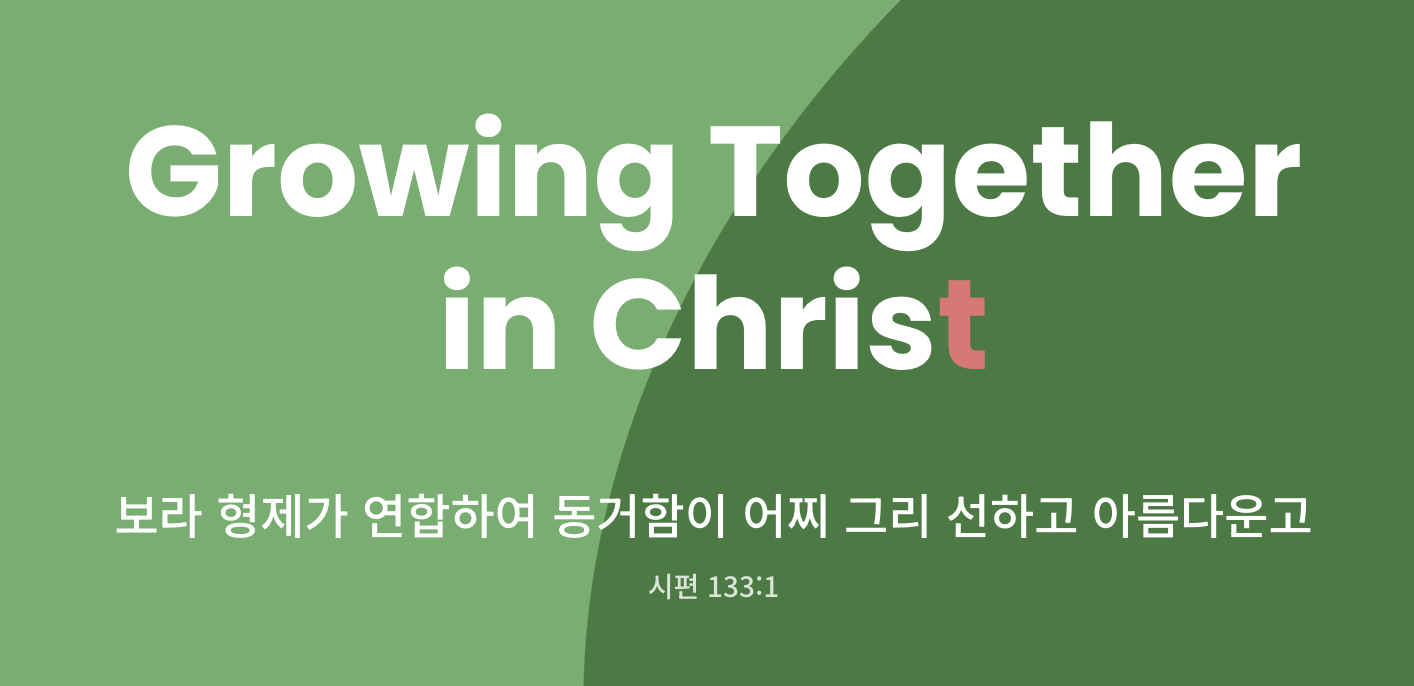
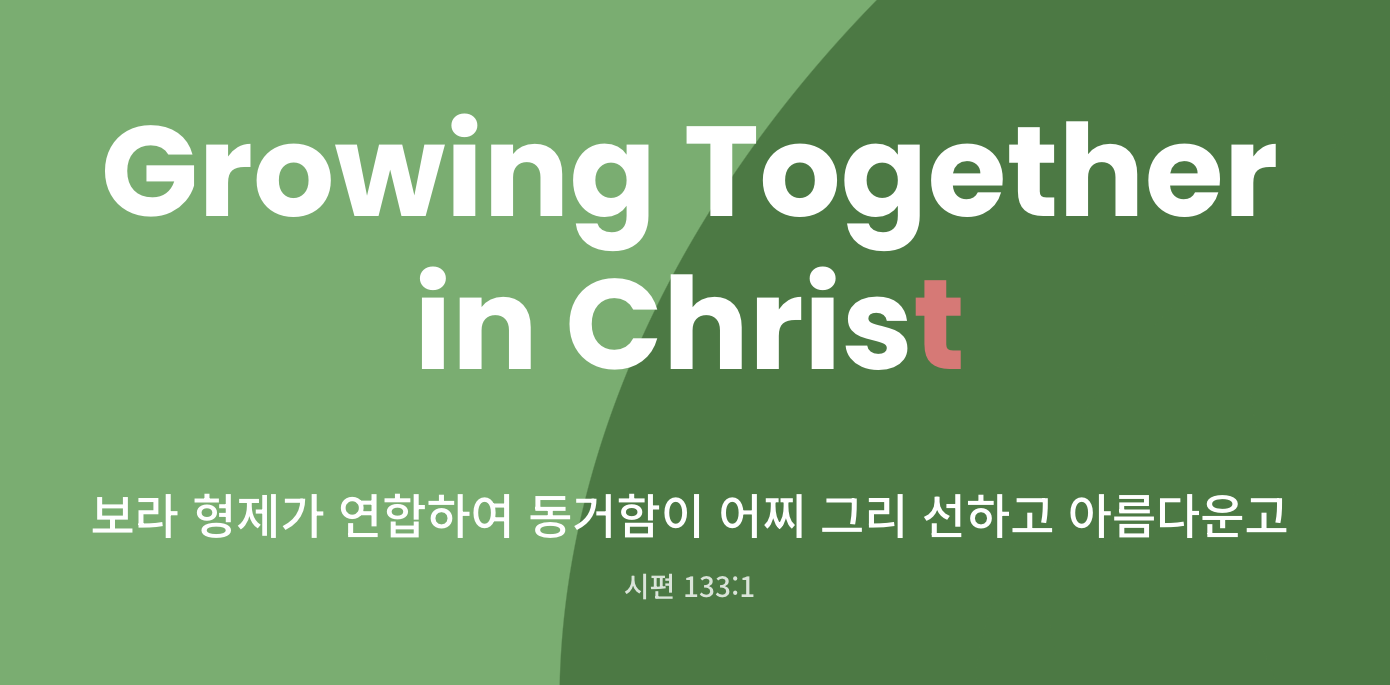
fix: 썸네일 업데이트 및 UI 반응형 개선 (#2)
- 썸네일 이미지 변경
- 성경말씀 500px 이하에서 두 줄로 표시
- 카드 제목이 번호 영역을 침범하지 않도록 수정

diff --git a/src/components/missionList.js b/src/components/missionList.js
@@ -35,7 +35,7 @@ export function renderMissionList(container, missions, rules, onAdminClick) {
           <!-- 성경 구절 -->
           <div class="hero-verse animate-fade-in-up stagger-1">
             <p class="text-lg sm:text-xl lg:text-2xl font-medium mb-2">
-              보라 형제가 연합하여 동거함이 어찌 그리 선하고 아름다운고
+              보라 형제가 연합하여 동거함이<br class="verse-break"> 어찌 그리 선하고 아름다운고
             </p>
             <p class="hero-verse-ref text-base">시편 133:1</p>
           </div>
@@ -123,11 +123,11 @@ function renderMissionCard(mission, index) {
       <!-- 컨텐츠 -->
       <div class="relative z-10">
         <!-- 아이콘 + 제목 (가로 배치) -->
-        <div class="flex items-center gap-4 mb-4">
+        <div class="flex items-start gap-4 mb-4 mission-title-row">
           <div class="w-14 h-14 rounded-xl ${iconBgClass} flex items-center justify-center flex-shrink-0">
             <span class="material-icons-outlined ${iconColorClass} text-3xl">${mission.icon || getMissionIcon(index)}</span>
           </div>
-          <h3 class="text-2xl sm:text-3xl font-extrabold text-secondary-800 pr-8">
+          <h3 class="text-2xl sm:text-3xl font-extrabold text-secondary-800">
             ${escapeHtml(mission.title)}
           </h3>
         </div>

diff --git a/src/style.css b/src/style.css
@@ -142,6 +142,7 @@ body {
   position: absolute;
   right: 16px;
   top: 12px;
+  z-index: 20;
 }
 
 /* FAB 스타일 */
@@ -366,6 +367,17 @@ body {
   font-weight: 500;
 }
 
+/* 성경 구절 반응형 - 기본: 한 줄 (br 숨김), 500px 이하: 두 줄 (br 표시) */
+.verse-break {
+  display: none;
+}
+
+@media (max-width: 500px) {
+  .verse-break {
+    display: block;
+  }
+}
+
 .hero-stat {
   background: rgba(255, 255, 255, 0.95);
   border-radius: 16px;
@@ -551,6 +563,11 @@ body {
   }
 }
 
+/* 미션 카드 제목 행 - 번호 영역 확보 */
+.mission-title-row {
+  margin-right: 60px;
+}
+
 /* 반응형 조정 */
 @media (max-width: 768px) {
   .mission-number,
@@ -558,6 +575,10 @@ body {
     font-size: 2.5rem;
     right: 12px;
     top: 8px;
+  }
+
+  .mission-title-row {
+    margin-right: 45px;
   }
 }
 
